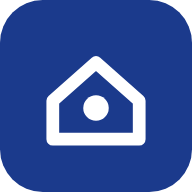
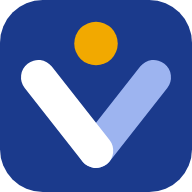
Version 2.2.1 : nouvelles icônes sur le site de test
Claude-Session: https://claude.ai/code/session_01NuFqmpXmtLvXTaYf17mAQ3

Changed region(s): [[0.0938, 0.0938, 0.9062, 0.875]]

diff --git a/sw.js b/sw.js
@@ -3,7 +3,7 @@
    - Données Supabase en lecture (/rest/v1/) : réseau d'abord ; sans connexion, la dernière réponse
      enregistrée sur ce téléphone est renvoyée. Les écritures ne sont jamais mises en cache.
    - À la déconnexion, l'application vide le cache des données (message « vl-clear »). */
-const SHELL = 'vl-shell-v3';
+const SHELL = 'vl-shell-v4';
 const DATA = 'vl-data-v1';
 
 self.addEventListener('install', e => {
